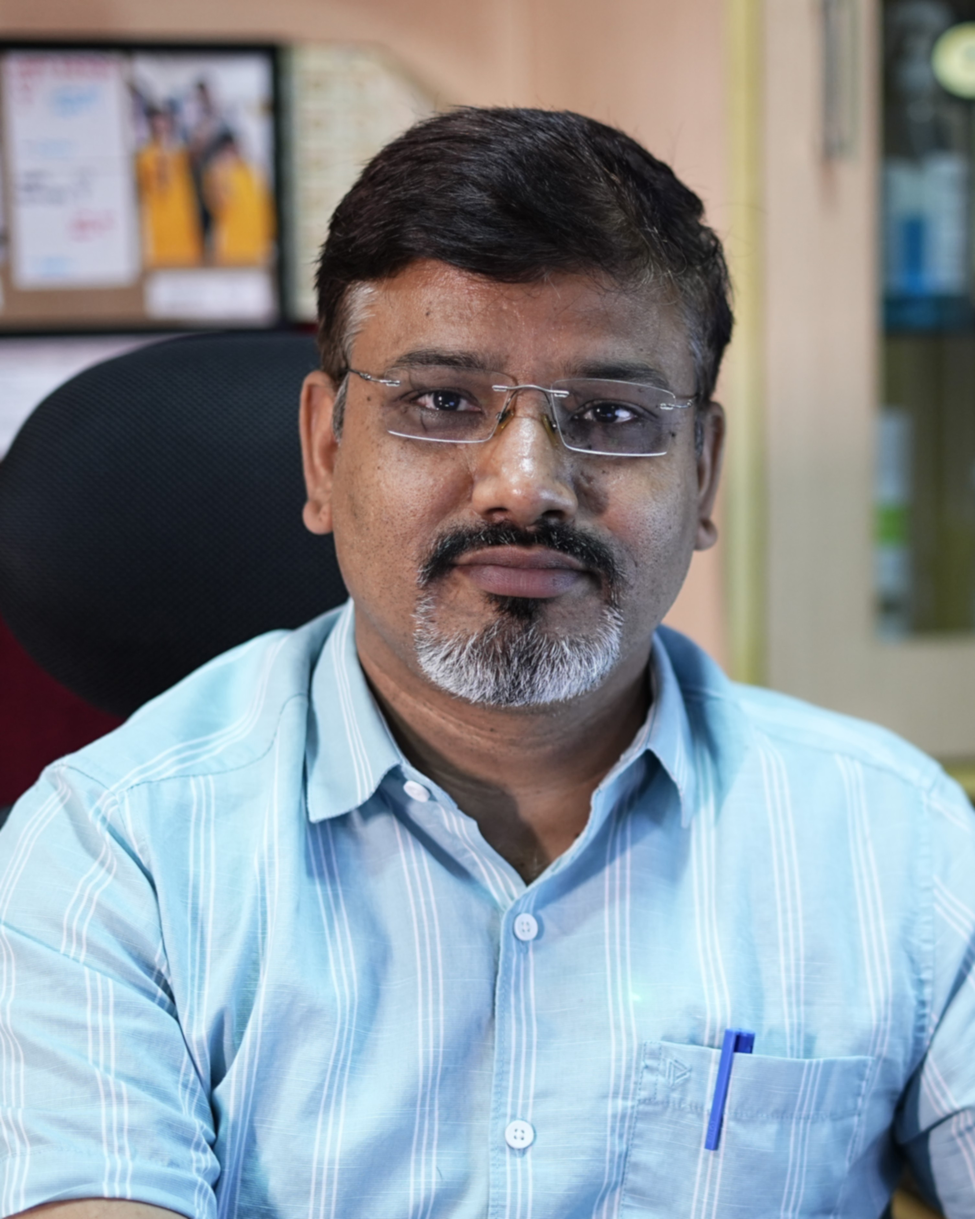
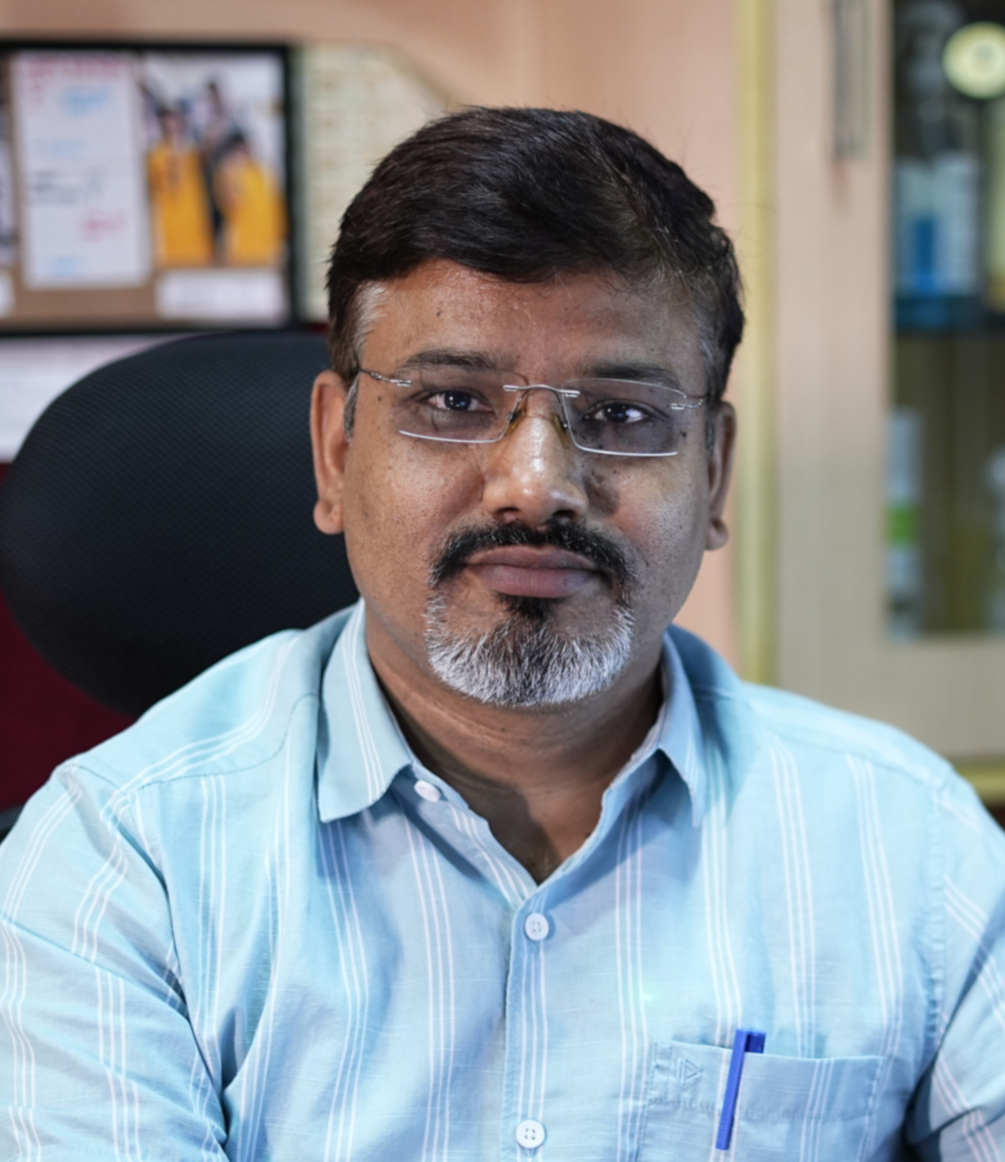
Fix heroImage import

diff --git a/src/components/sections/Hero.jsx b/src/components/sections/Hero.jsx
@@ -373,7 +373,7 @@
 import { Link } from "react-router-dom";
 
 import professor from "../../assets/images/professor.jpg";
-import heroImage from "../../assets/images/Deepak_Joshi.jpg";
+import heroImage from "../../assets/images/Deepak_Joshi.JPG";
 import hexagon from "../../assets/images/hexagon.svg";
 
 const interests = [
